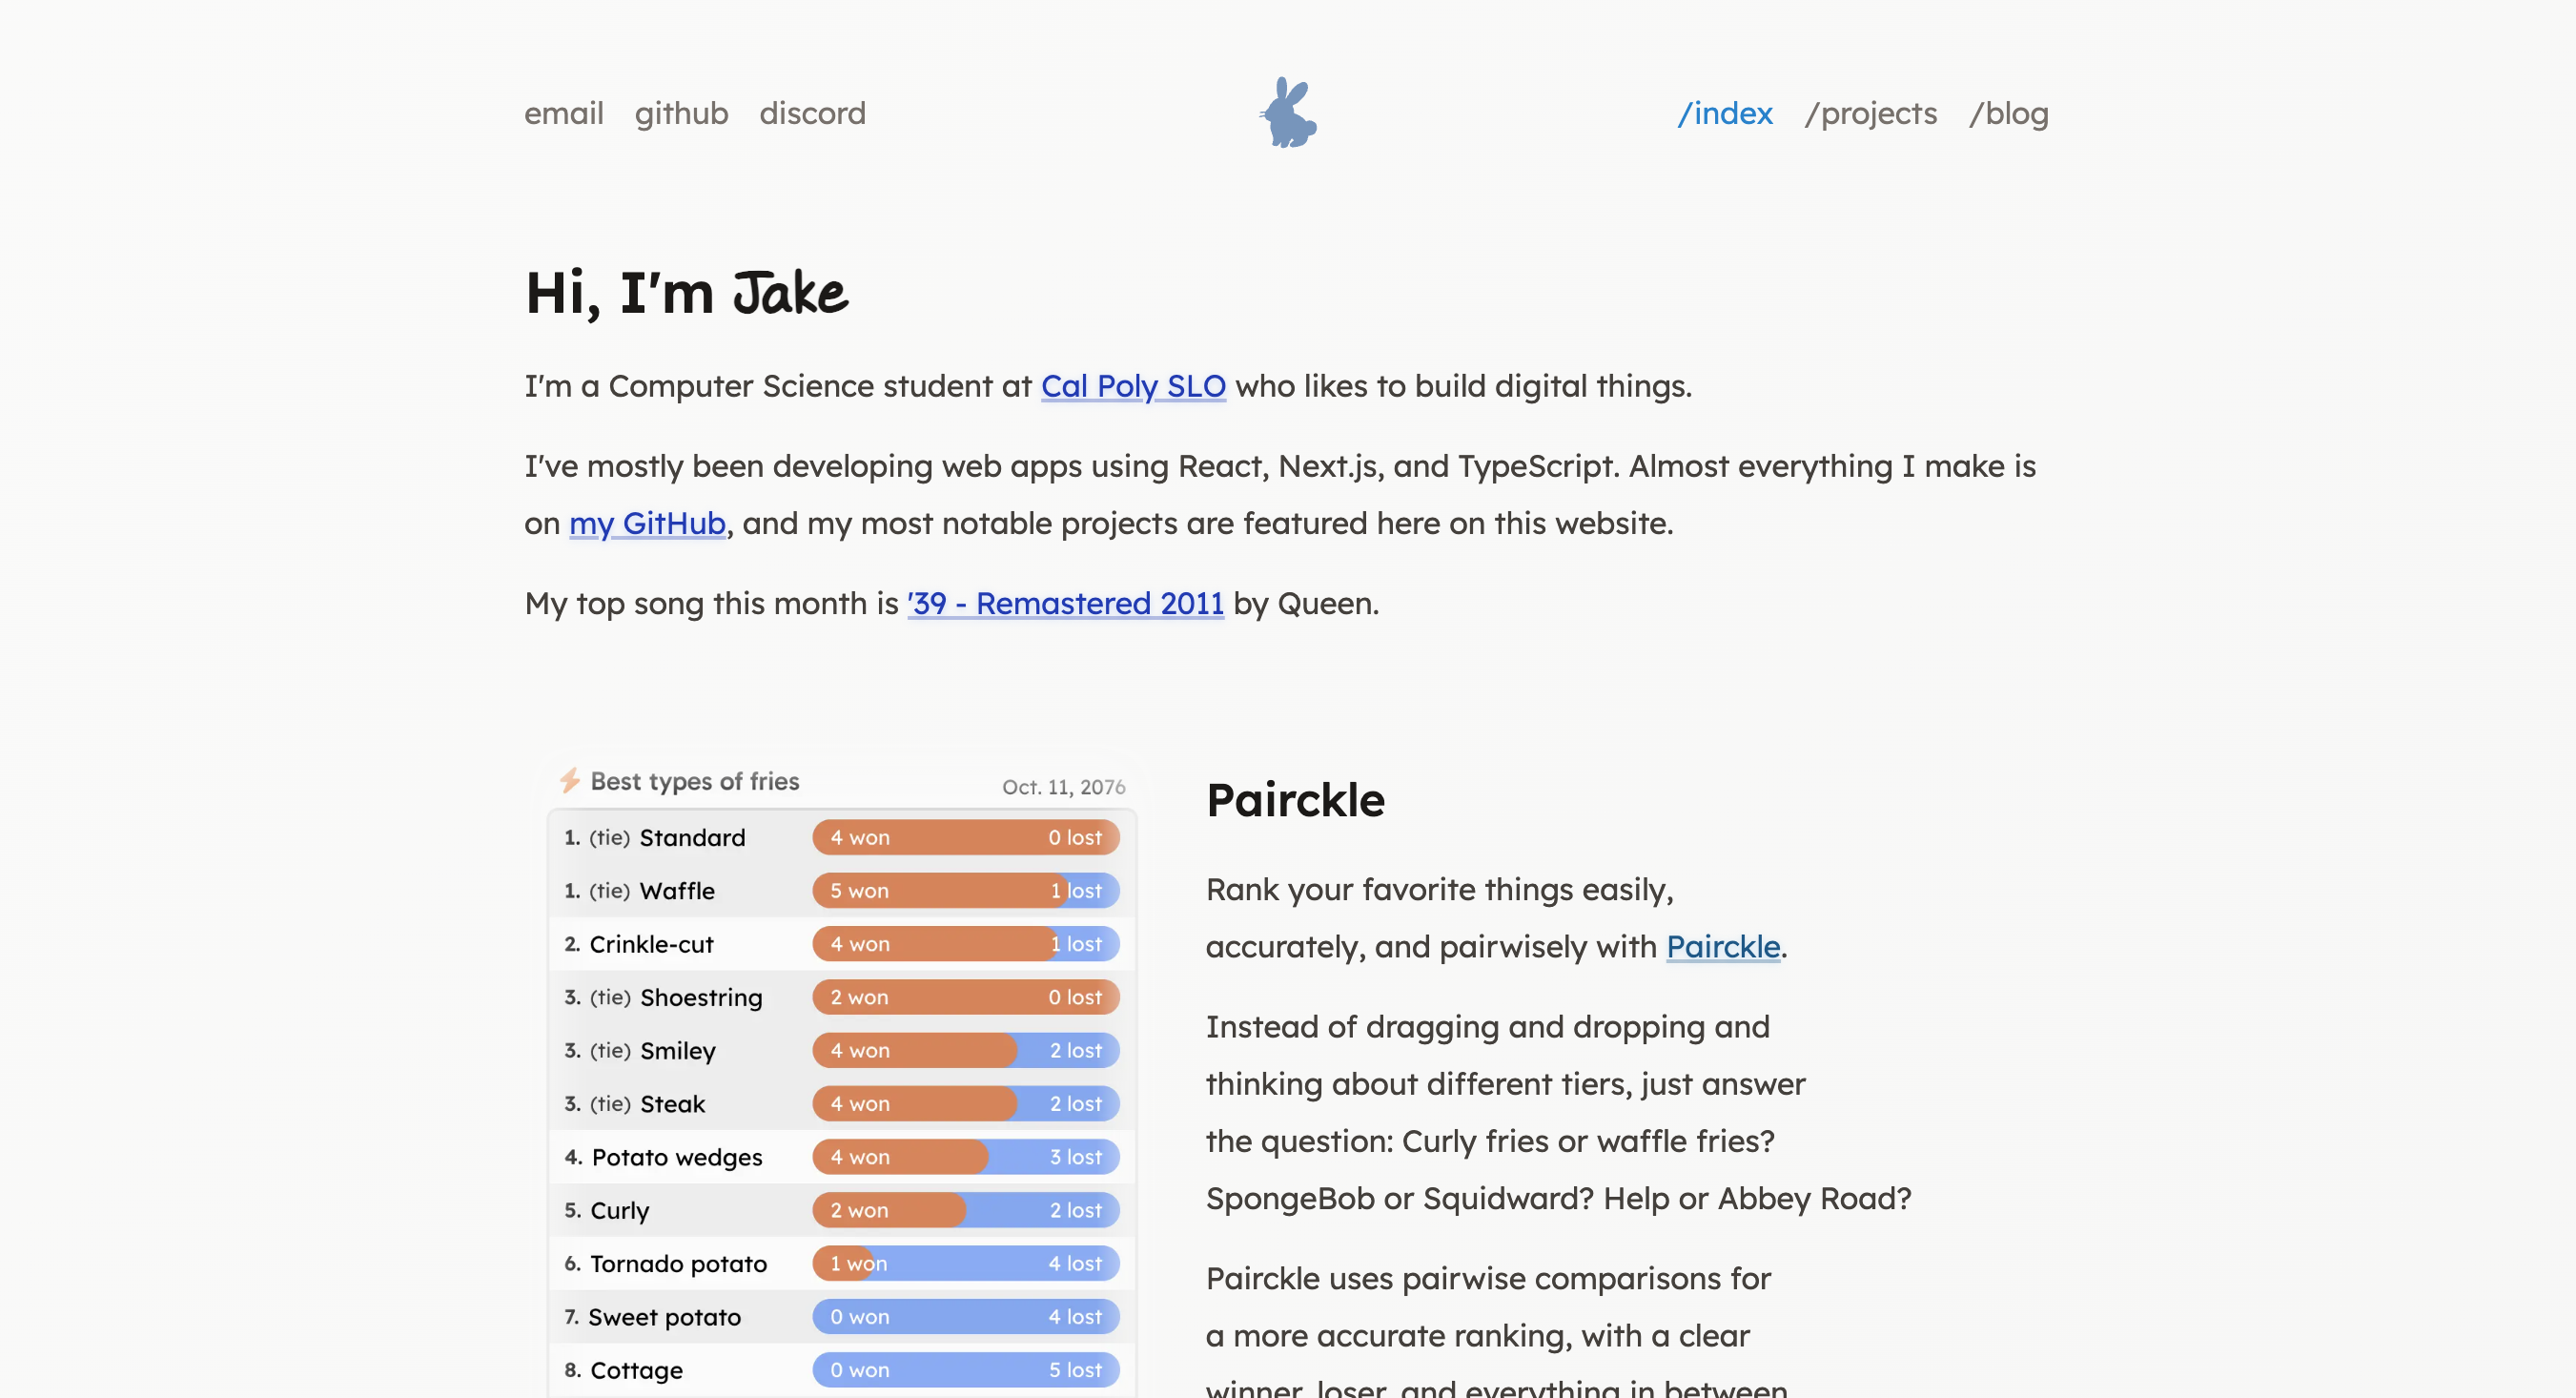
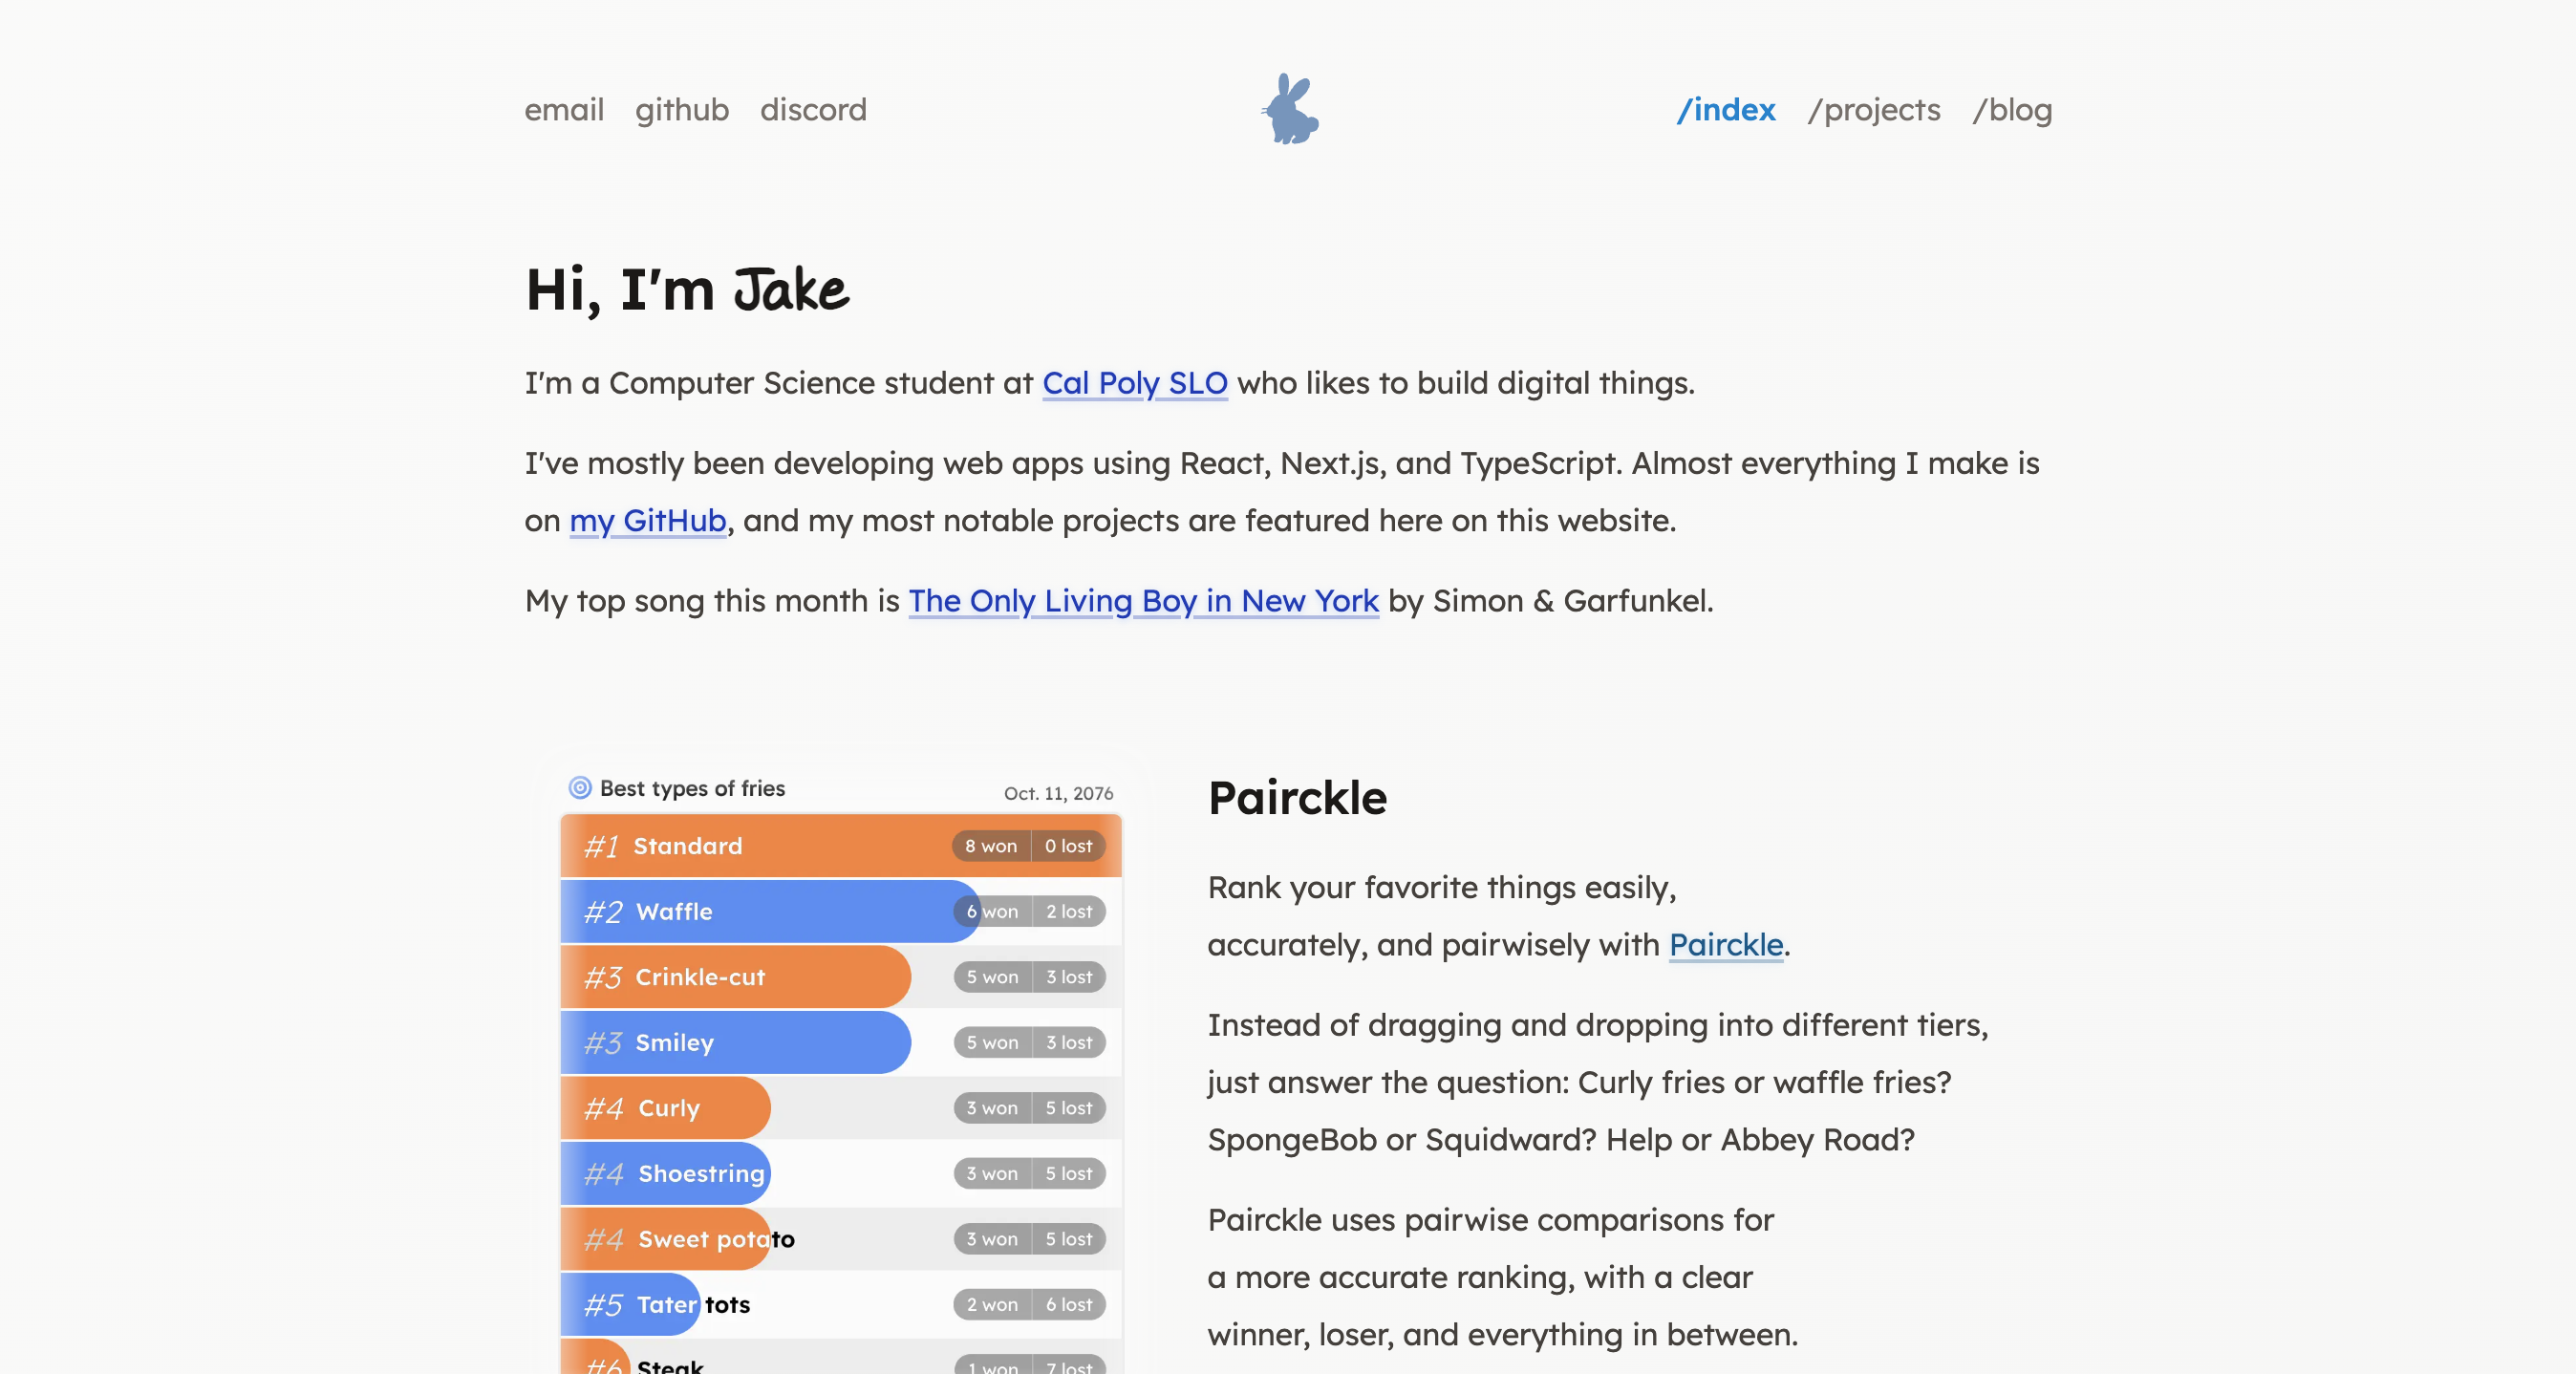
update main & pairckle images

diff --git a/src/pages/index.tsx b/src/pages/index.tsx
@@ -13,14 +13,15 @@ const handwriting = localFont({
   variable: "--font-handwriting",
 });
 
-export const getStaticProps: GetStaticProps<{ track: TopTrackType | null }> =
-  async () => {
-    const track = await getTopTrack();
-    return {
-      props: { track },
-      revalidate: 21600, // ISR: revalidate every 6 hours
-    };
+export const getStaticProps: GetStaticProps<{
+  track: TopTrackType | null;
+}> = async () => {
+  const track = await getTopTrack();
+  return {
+    props: { track },
+    revalidate: 21600, // ISR: revalidate every 6 hours
   };
+};
 
 export default function Home({ track }: { track: TopTrackType | null }) {
   return (
@@ -95,9 +96,9 @@ export default function Home({ track }: { track: TopTrackType | null }) {
           .
         </p>
         <p className="text md:text-balance">
-          Instead of dragging and dropping and thinking about different tiers,
-          just answer the question: Curly fries or waffle fries? SpongeBob or
-          Squidward? Help or Abbey Road?
+          Instead of dragging and dropping into different tiers, just answer the
+          question: Curly fries or waffle fries? SpongeBob or Squidward? Help or
+          Abbey Road?
         </p>
         <p className="text md:text-balance">
           Pairckle uses pairwise comparisons for a more accurate ranking, with a

diff --git a/src/pages/projects/jakeo.tsx b/src/pages/projects/jakeo.tsx
@@ -32,7 +32,7 @@ export default function JakeO() {
         title="JakeO.dev"
         desc="You're already here — check out all of my projects and blog posts."
         createDate="September 2020"
-        updateDate="February 2026"
+        updateDate="April 2026"
         logoImg="https://bunnies.jakeo.dev/images/solid-gradient-blue-gray-bunny.png"
         logoBig
         toolsList={["Next.js", "React", "TypeScript"]}

diff --git a/src/pages/projects/pairckle.tsx b/src/pages/projects/pairckle.tsx
@@ -26,7 +26,7 @@ export default function Pairckle() {
         title="Pairckle"
         desc="Rank your favorite things easily, accurately, and pairwisely."
         createDate="January 2025"
-        updateDate="February 2026"
+        updateDate="April 2026"
         logoImg="https://pairckle.jakeo.dev/pairckle-icon.png"
         toolsList={["Next.js", "React", "TypeScript"]}
       />